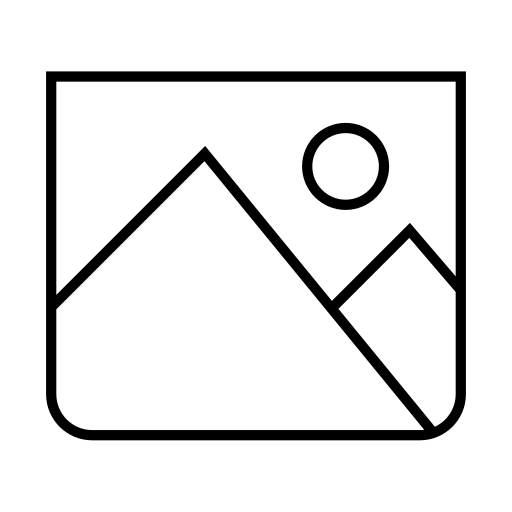
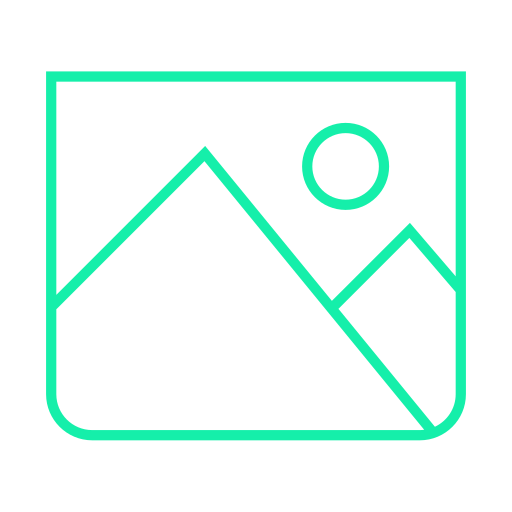
CreatePost image placeholder, generate button, share button

Changed region(s): [[0.0625, 0.125, 0.9375, 0.875], [0.5625, 0.2188, 0.7812, 0.4375]]

diff --git a/src/pages/CreatePost.jsx b/src/pages/CreatePost.jsx
@@ -11,6 +11,8 @@ const CreatePost = () => {
   const [generatingImg, setGeneratingImg] = useState(false);
   const [loading, setLoading] = useState(false);
 
+  const generateImage = () => {};
+
   const handleSubmit = () => {};
 
   const handleChange = (e) => {};
@@ -49,6 +51,51 @@ const CreatePost = () => {
             isSurpriseMe
             handleSurpriseMe={handleSurpriseMe}
           />
+
+          <div className="relative bg-[#250434] border border-[#15efaa] text-gray-900 text-sm rounded-lg focus:ring-[#15efaa] focus:border-[#15efaa] w-64 p-3 h-64 flex justify-center items-center">
+            {form.photo ? (
+              <img
+                src={form.photo}
+                alt={form.prompt}
+                className="w-full h-full object-contain"
+              />
+            ) : (
+              <img
+                src={preview}
+                alt="preview"
+                className="w-9/12 h-9/12 object-contain opacity-40"
+              />
+            )}
+
+            {generatingImg && (
+              <div className="absolute inset-0 z-0 flex justify-center items-center bg-[rgba(0,0,0,0.5)] rounded-lg">
+                <Loader />
+              </div>
+            )}
+          </div>
+        </div>
+
+        <div className="mt-5 flex gap-5">
+          <button
+            type="button"
+            onClick={generateImage}
+            className="text-[#110218] bg-[#15efaa] font-bold rounded-md text-sm w-full sm:w-auto px-5 py-2.5 text-center"
+          >
+            {generatingImg ? "Generating..." : "Generate"}
+          </button>
+        </div>
+
+        <div className="mt-10">
+          <p className="mt-2 text-gray-400 text-[14px]">
+            Once you have created the image you are able to share it with the
+            community
+          </p>
+          <button
+            type="submit"
+            className="mt-3 text-[#110218] bg-[#f6d283] font-medium rounded-md text-sm w-full sm:w-auto px-5 py-2.5 text-center"
+          >
+            {loading ? "Sharing..." : "Share with the community"}
+          </button>
         </div>
       </form>
     </section>

diff --git a/src/components/FormField.jsx b/src/components/FormField.jsx
@@ -34,7 +34,7 @@ const FormField = ({
         value={value}
         onChange={handleChange}
         required
-        className="bg-[#250434] border border-[#f6d283] text-gray-900 text-sm rounded-lg focus:ring-[#15efaa] focus:border-[#15efaa] outline-none block w-full p-3"
+        className="bg-[#250434] border border-[#250434] text-gray-900 text-sm rounded-lg focus:ring-[#15efaa] focus:border-[#15efaa] outline-none block w-full p-3"
       />
     </div>
   );

diff --git a/src/components/Loader.jsx b/src/components/Loader.jsx
@@ -4,7 +4,7 @@ const Loader = () => (
   <div role="status">
     <svg
       aria-hidden="true"
-      className="inline w-10 h-10 mr-2 text-gray-200 animate-spin fill-[#6469ff]"
+      className="inline w-10 h-10 mr-2 text-gray-200 animate-spin fill-[#15efaa]"
       viewBox="0 0 100 101"
       fill="none"
       xmlns="http://www.w3.org/2000/svg"
